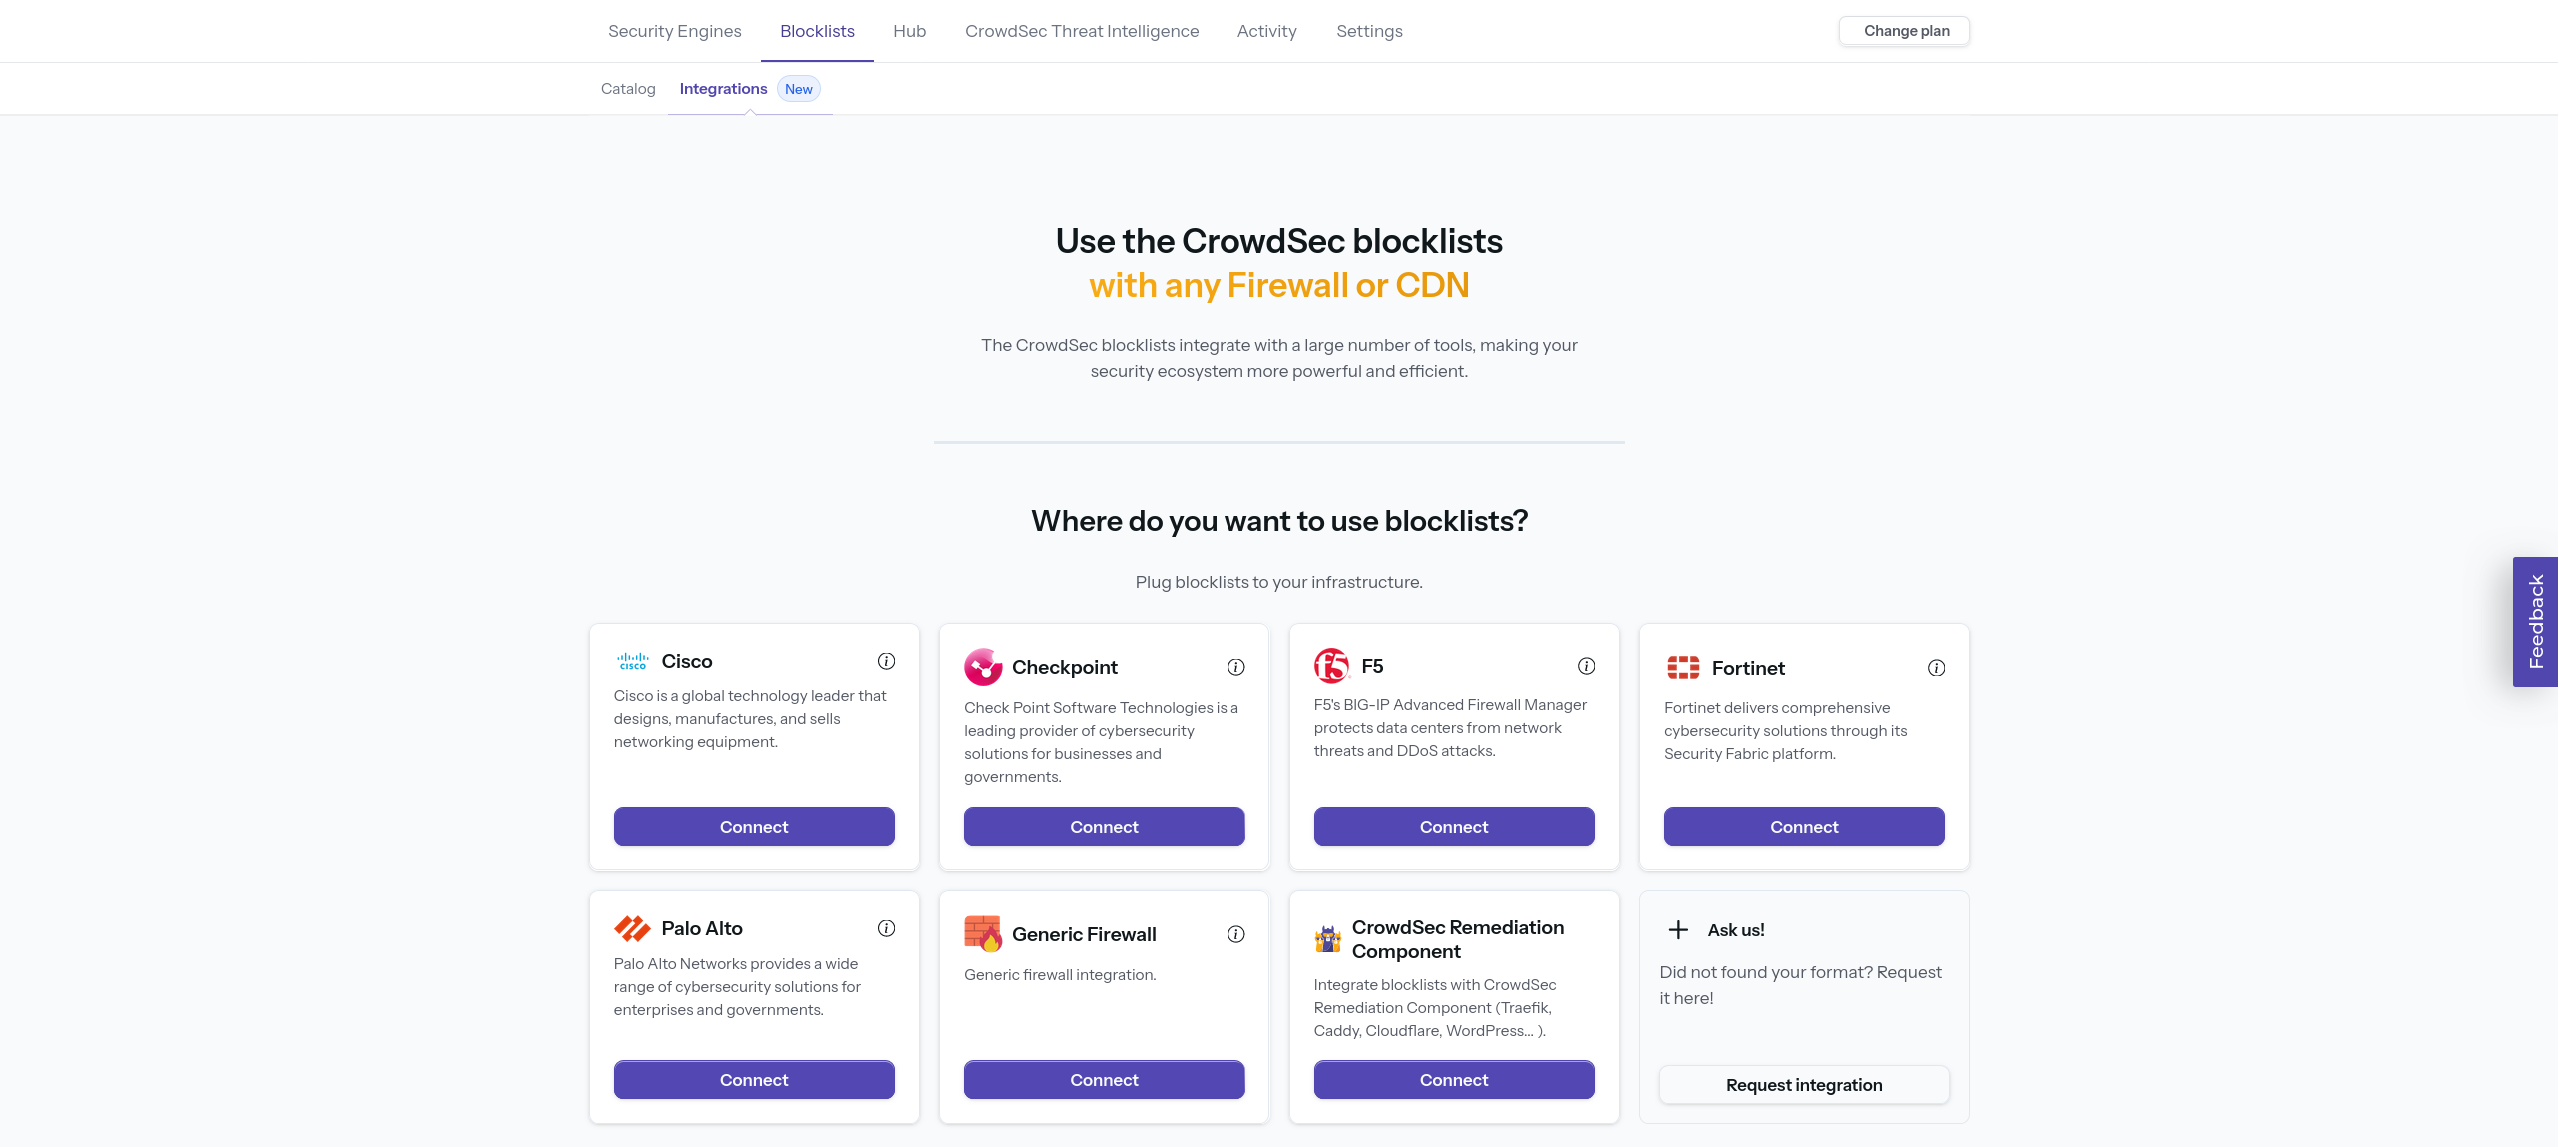
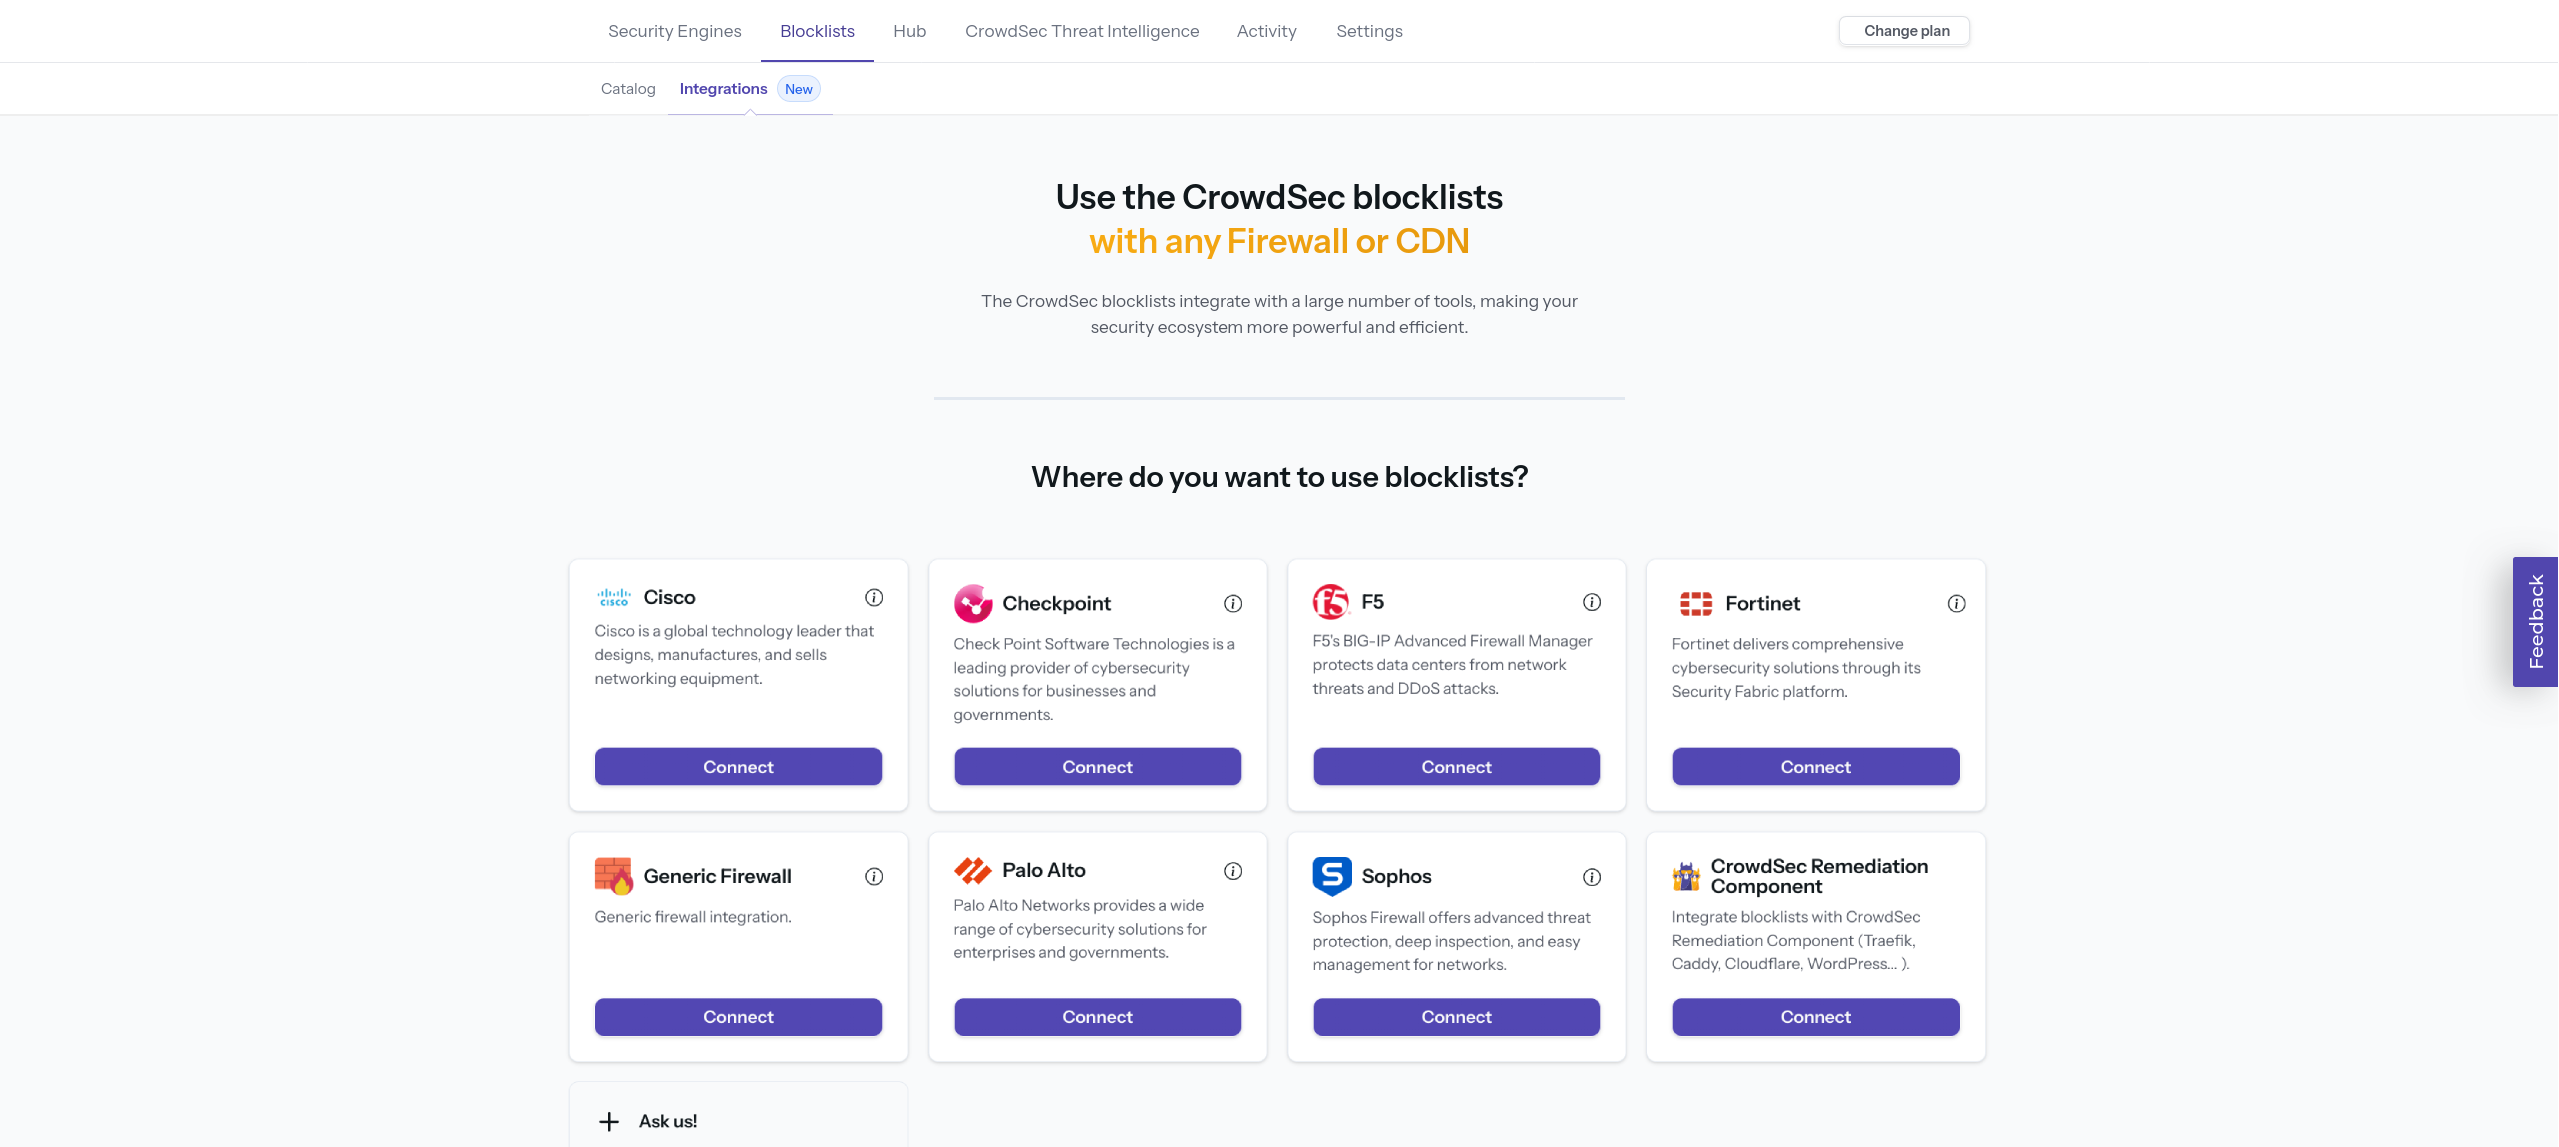
adding sophos fw integration doc (#619)
* adding sophos fw integration doc

---------

diff --git a/crowdsec-docs/sidebarsUnversioned.js b/crowdsec-docs/sidebarsUnversioned.js
@@ -329,6 +329,7 @@ module.exports = {
                 "integrations/f5",
                 "integrations/fortinet",
                 "integrations/paloalto",
+                "integrations/sophos",
                 "integrations/genericfirewall",
                 "integrations/remediationcomponent",
             ]

diff --git a/crowdsec-docs/unversioned/service_api/integrations.md b/crowdsec-docs/unversioned/service_api/integrations.md
@@ -9,11 +9,12 @@ For some constructors, the integrations can generate vendor-specific format, see
 
 | Constructor | Authentication | Multiple URLs | Constructor Doc                                                                                                                                                                              | Format       |
 | ----------- | -------------- | ------------- | -------------------------------------------------------------------------------------------------------------------------------------------------------------------------------------------- | ------------ |
-| Fortinet    | Basic Auth     | Yes           | [Fortinet doc](https://docs.fortinet.com/document/fortigate/6.4.5/administration-guide/891236/external-blocklist-policy)                                                                     | `fortigate`  |
-| Palo alto   | Basic Auth     | Yes           | [PaloAlto doc](https://docs.paloaltonetworks.com/pan-os/11-1/pan-os-admin/policy/use-an-external-dynamic-list-in-policy/configure-the-firewall-to-access-an-external-dynamic-list)           | `paloalto`   |
 | CheckPoint  | Basic Auth     | Yes           | [CheckPoint doc](https://support.checkpoint.com/results/sk/sk1)                                                                                                                              | `checkpoint` |
 | Cisco       | Basic Auth     | Yes           | [Cisco doc](https://www.cisco.com/c/en/us/td/docs/security/secure-firewall/management-center/device-config/710/management-center-device-config-71/objects-object-mgmt.html#ID-2243-00000291) | `cisco`      |
 | F5          | Basic Auth     | Yes           | [F5 doc](https://techdocs.f5.com/kb/en-us/products/big-ip-afm/manuals/product/big-ip-network-firewall-policies-and-implementations-14-0-0/07.html )                                          | `f5`         |
+| Fortinet    | Basic Auth     | Yes           | [Fortinet doc](https://docs.fortinet.com/document/fortigate/6.4.5/administration-guide/891236/external-blocklist-policy)                                                                     | `fortigate`  |
+| Palo alto   | Basic Auth     | Yes           | [PaloAlto doc](https://docs.paloaltonetworks.com/pan-os/11-1/pan-os-admin/policy/use-an-external-dynamic-list-in-policy/configure-the-firewall-to-access-an-external-dynamic-list)           | `paloalto`   |
+| Sophos      | Basic Auth     | Yes           | [Sophos doc](https://docs.sophos.com/nsg/sophos-firewall/21.0/help/en-us/webhelp/onlinehelp/AdministratorHelp/ActiveThreatResponse/ThirdPartyThreatFeeds/index.html)                         | `sophos`     |
 
 
 For all the other providers, the `plain_text` format consists of one ip per line, and should be supported by most devices. If a specific format is missing, reach out to us and we'll help you support it!

diff --git a/crowdsec-docs/unversioned/console/blocklists/integrations/firewall.md b/crowdsec-docs/unversioned/console/blocklists/integrations/firewall.md
@@ -36,6 +36,7 @@ Every product product has its way to handle external blocklists. We provide a si
 | [F5](https://techdocs.f5.com/kb/en-us/products/big-ip-afm/manuals/product/big-ip-network-firewall-policies-and-implementations-14-0-0/07.html)                                           | Custom     | `192.168.38.187,32,BL,crowdsec-myf5Integration`<br /> `192.168.38.188,32,BL,crowdsec-myf5Integration`                           |
 | [Fortinet](https://docs.fortinet.com/document/fortigate/6.4.5/administration-guide/891236/external-blocklist-policy)                                                                     | Plain text | `192.168.38.187`<br />`192.168.38.186`                                                                                          |
 | [Palo Alto](https://docs.paloaltonetworks.com/pan-os/11-1/pan-os-admin/policy/use-an-external-dynamic-list-in-policy/external-dynamic-list#idf36cb80a-77f1-4d17-9c4b-7efe9fe426af)       | Plain text | `192.168.38.187`<br />`192.168.38.186`                                                                                          |
+| [Sophos](https://docs.sophos.com/nsg/sophos-firewall/21.0/help/en-us/webhelp/onlinehelp/AdministratorHelp/ActiveThreatResponse/ThirdPartyThreatFeeds/index.html)                         | Plain text | `192.168.38.187`<br />`192.168.38.186`                                                                                          |
 | Generic vendor                                                                                                                                                                           | Plain text | `192.168.38.187`<br />`192.168.38.186`                                                                                          |
 
 ## How to bypass provider limit?
